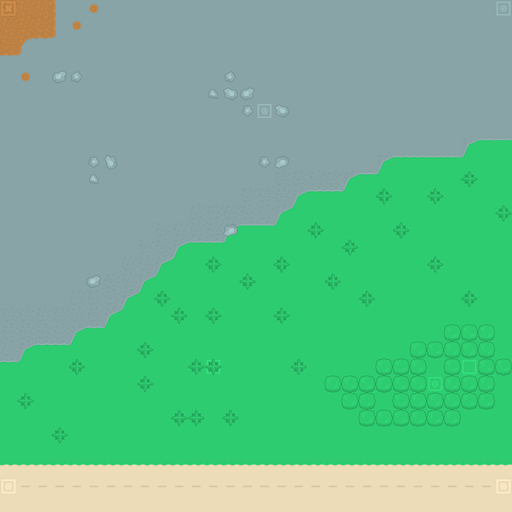
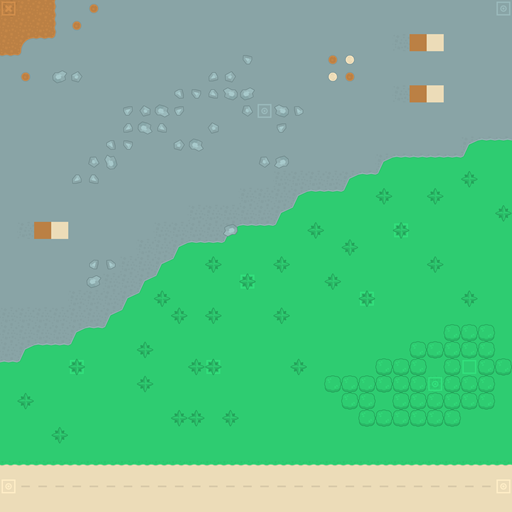
Added houses

diff --git a/src/backend.js b/src/backend.js
@@ -149,74 +149,80 @@ if (GROUNDITEMFLAG){
     const groundgunList = [ 'M1', 'mk14', 'SLR','AWM',    'VSS', 'M249', 'ak47', 'FAMAS',    's686','DBS', 'usas12',     'ump45','vector','mp5']
     const groundGunAmount = groundgunList.length
     for (let i=0;i<groundGunAmount; i++){
-      makeNdropItem('gun', groundgunList[i], groundItemSpawnLoc.x + Math.round(60*(i - groundGunAmount/2)), groundItemSpawnLoc.y )
+      makeNdropItem('gun', groundgunList[i], {x:groundItemSpawnLoc.x + Math.round(60*(i - groundGunAmount/2)), y:groundItemSpawnLoc.y} )
     }
     
     const groundConsList = ['bandage','bandage','bandage','bandage','bandage','medkit']
     const groundConsAmount = groundConsList.length
     for (let i=0;i<groundConsAmount; i++){
-      makeNdropItem('consumable', groundConsList[i], groundItemSpawnLoc.x + Math.round(50*(i - groundConsAmount/2)), groundItemSpawnLoc.y - 100)
+      makeNdropItem('consumable', groundConsList[i], {x:groundItemSpawnLoc.x + Math.round(50*(i - groundConsAmount/2)), y:groundItemSpawnLoc.y - 100})
     }
   
     const groundArmorAmount = armorTypes.length
     for (let i=0;i<groundArmorAmount; i++){
-      makeNdropItem( 'armor', armorTypes[i], groundItemSpawnLoc.x + Math.round(50*(i - groundArmorAmount/2)), groundItemSpawnLoc.y - 150)
+      makeNdropItem( 'armor', armorTypes[i], {x:groundItemSpawnLoc.x + Math.round(50*(i - groundArmorAmount/2)), y:groundItemSpawnLoc.y - 150})
     }
   
     const groundMeleeList = ['knife','bat']
     const groundMeleeAmount = groundMeleeList.length
     for (let i=0;i<groundMeleeAmount; i++){
-      makeNdropItem('melee', groundMeleeList[i], groundItemSpawnLoc.x + Math.round(50*(i - groundMeleeAmount/2)), groundItemSpawnLoc.y - 200)
+      makeNdropItem('melee', groundMeleeList[i], {x:groundItemSpawnLoc.x + Math.round(50*(i - groundMeleeAmount/2)), y:groundItemSpawnLoc.y - 200})
     }
   }
 
   if (ENTITYDISTRIBUTIONS[ENTITYDISTRIBUTION_MARK]==="battleRoyale"){
-
-    makeObjects("wall", 30, {orientation: 'vertical',start:{x:500,y:1000}, end:{x:500,y:1200}, width:20, color: 'gray'})
-
-
     // special tile locations in map1
-    const TILESLOC = {"rock1":{row:0,col:29},"rock2":{row:6,col:15}, "forest1":{row:21,col:27},"forest2":{row:22,col:25},"tree1":{row:21,col:12},"tree2":{row:21,col:4},"tree3":{row:16,col:14},"tree4":{row:17,col:21},"tree5":{row:13,col:23},"sandroad1":{row:28,col:0},"sandroad2":{row:28,col:29}}
-    function getCoordTiles(location){
+    const TILESLOC = {"house1":{row:13,col:2},"house2":{row:2,col:24},"house3":{row:5,col:24},"rock1":{row:0,col:29},"rock2":{row:6,col:15}, "forest1":{row:21,col:27},"forest2":{row:22,col:25},"tree1":{row:21,col:12},"tree2":{row:21,col:4},"tree3":{row:16,col:14},"tree4":{row:17,col:21},"tree5":{row:13,col:23},"sandroad1":{row:28,col:0},"sandroad2":{row:28,col:29}}
+    
+
+    function getCoordTilesCenter(location){
       return {x:location.col*TILE_SIZE + Math.round(TILE_SIZE/2), y:location.row*TILE_SIZE + Math.round(TILE_SIZE/2)}
     }
 
+    function getCoordTiles(location){
+      return {x:location.col*TILE_SIZE, y:location.row*TILE_SIZE}
+    }
+
+    makeHouse(getCoordTiles(TILESLOC["house1"]))
+    makeHouse(getCoordTiles(TILESLOC["house2"]))
+    makeHouse(getCoordTiles(TILESLOC["house3"]))
+
     // some guns 
-    const rock1loc = getCoordTiles(TILESLOC["rock1"])
-    makeNdropItem('gun', 'AWM', rock1loc.x, rock1loc.y)
-    makeNdropItem('scope', "2", rock1loc.x, rock1loc.y+50) // scope 3 is laggy to other PCs
+    const rock1loc = getCoordTilesCenter(TILESLOC["rock1"])
+    makeNdropItem('gun', 'AWM', rock1loc)
+    makeNdropItem('scope', "2", rock1loc) // scope 3 is laggy to other PCs
     // console.log(rockloc)
     // console.log(MAPWIDTH)
-    const rock2loc = getCoordTiles(TILESLOC["rock2"])
-    makeNdropItem('gun', 'M249', rock2loc.x, rock2loc.y)
-    makeNdropItem('scope', "1", rock2loc.x, rock2loc.y + 50)
+    const rock2loc = getCoordTilesCenter(TILESLOC["rock2"])
+    makeNdropItem('gun', 'M249', rock2loc)
+    makeNdropItem('scope', "1", rock2loc)
 
-    const sandroad1loc = getCoordTiles(TILESLOC["sandroad1"])
-    makeNdropItem('gun', 'mp5', sandroad1loc.x, sandroad1loc.y)
+    const sandroad1loc = getCoordTilesCenter(TILESLOC["sandroad1"])
+    makeNdropItem('gun', 'mp5', sandroad1loc)
 
-    const sandroad2loc = getCoordTiles(TILESLOC["sandroad2"])
-    makeNdropItem('gun', 's686', sandroad2loc.x, sandroad2loc.y)
+    const sandroad2loc = getCoordTilesCenter(TILESLOC["sandroad2"])
+    makeNdropItem('gun', 's686', sandroad2loc)
 
-    const tree2loc = getCoordTiles(TILESLOC["tree2"])
-    makeNdropItem('gun', 'grenadeLauncher', tree2loc.x, tree2loc.y)
+    const tree2loc = getCoordTilesCenter(TILESLOC["tree2"])
+    makeNdropItem('gun', 'grenadeLauncher', tree2loc)
     
 
-    makeNdropItem('gun', 'vector', getCoordTiles(TILESLOC["tree3"]).x, getCoordTiles(TILESLOC["tree3"]).y)
-    makeNdropItem('melee', 'knife', getCoordTiles(TILESLOC["tree4"]).x, getCoordTiles(TILESLOC["tree4"]).y)
-    makeNdropItem('gun', 'ak47', getCoordTiles(TILESLOC["tree5"]).x, getCoordTiles(TILESLOC["tree5"]).y)
+    makeNdropItem('gun', 'vector', getCoordTilesCenter(TILESLOC["tree3"]))
+    makeNdropItem('melee', 'knife', getCoordTilesCenter(TILESLOC["tree4"]))
+    makeNdropItem('gun', 'ak47', getCoordTilesCenter(TILESLOC["tree5"]))
 
 
     // some health packs
-    const tree1loc = getCoordTiles(TILESLOC["tree1"])
-    makeNdropItem('consumable', 'medkit',tree1loc.x, tree1loc.y)
+    const tree1loc = getCoordTilesCenter(TILESLOC["tree1"])
+    makeNdropItem('consumable', 'medkit',tree1loc)
 
     // some armors
-    const forest1loc = getCoordTiles(TILESLOC["forest1"])
-    makeNdropItem( 'armor', 'absorb', forest1loc.x, forest1loc.y)
+    const forest1loc = getCoordTilesCenter(TILESLOC["forest1"])
+    makeNdropItem( 'armor', 'absorb', forest1loc)
 
-    const forest2loc = getCoordTiles(TILESLOC["forest2"])
-    makeNdropItem( 'armor', 'reduce', forest2loc.x, forest2loc.y)
-    makeNdropItem('scope', "1", forest2loc.x, forest2loc.y+50)
+    const forest2loc = getCoordTilesCenter(TILESLOC["forest2"])
+    makeNdropItem( 'armor', 'reduce', forest2loc)
+    makeNdropItem('scope', "1", forest2loc)
 
   }
 
@@ -399,7 +405,7 @@ async function main(){
 
             // default item for a player if exists
             for (let i=0;i<defaultGuns.length; i++){
-              makeNdropItem('gun', defaultGuns[i], 0 , 0,onground=false)
+              makeNdropItem('gun', defaultGuns[i], {x:0 ,y:0},onground=false)
               inventory[i] = backEndItems[itemsId]
             }
 
@@ -810,7 +816,10 @@ setInterval(() => {
 
 
 
-function makeNdropItem(itemtype, name, groundx, groundy,onground=true){
+function makeNdropItem(itemtype, name, groundloc,onground=true){
+  const groundx = groundloc.x
+  const groundy = groundloc.y
+
   itemsId++
   let size
   let color
@@ -894,6 +903,28 @@ function makeObjects(objecttype, health, objectinfo){
   backEndObjects[objectId] = {
     objecttype , myID:objectId, deleteRequest:false, health, objectinfo, objectsideforbackend
   }
+}
+
+function makeBox(location){ // location is top left corner
+  const WALLWIDTH = 20
+  makeObjects("wall", 30, {orientation: 'vertical',start:{x:location.x+WALLWIDTH,y:location.y}, end:{x:location.x+WALLWIDTH,y:location.y+200}, width:WALLWIDTH, color: 'gray'})
+  makeObjects("wall", 30, {orientation: 'vertical',start:{x:location.x+300-WALLWIDTH,y:location.y}, end:{x:location.x+300-WALLWIDTH,y:location.y+200}, width:WALLWIDTH, color: 'gray'})
+  makeObjects("wall", 30, {orientation: 'horizontal',start:{x:location.x,y:location.y}, end:{x:location.x+300,y:location.y}, width:WALLWIDTH, color: 'gray'})
+  makeObjects("wall", 30, {orientation: 'horizontal',start:{x:location.x,y:location.y+200}, end:{x:location.x+300,y:location.y+200}, width:WALLWIDTH, color: 'gray'})
+  
+}
+
+function makeHouse(location){ // location is top left corner
+  const WALLWIDTH_HALF = 10
+  const WALLWIDTH = WALLWIDTH_HALF*2
+  const HOUSEWIDTH = TILE_SIZE*2
+  const HOUSEHEIGHT = TILE_SIZE
+  const DOORLEN = 40
+  makeObjects("wall", 30, {orientation: 'vertical',start:{x:location.x+WALLWIDTH_HALF,y:location.y+DOORLEN}, end:{x:location.x+WALLWIDTH_HALF,y:location.y+HOUSEHEIGHT}, width:WALLWIDTH, color: 'gray'})
+  makeObjects("wall", 30, {orientation: 'vertical',start:{x:location.x+HOUSEWIDTH-WALLWIDTH_HALF,y:location.y}, end:{x:location.x+HOUSEWIDTH-WALLWIDTH_HALF,y:location.y+HOUSEHEIGHT}, width:WALLWIDTH, color: 'gray'})
+  makeObjects("wall", 30, {orientation: 'horizontal',start:{x:location.x,y:location.y}, end:{x:location.x+HOUSEWIDTH,y:location.y}, width:WALLWIDTH, color: 'gray'})
+  makeObjects("wall", 30, {orientation: 'horizontal',start:{x:location.x,y:location.y+HOUSEHEIGHT}, end:{x:location.x+HOUSEWIDTH,y:location.y+HOUSEHEIGHT}, width:WALLWIDTH, color: 'gray'})
+  
 }
 
 function safeDeleteObject(id){
@@ -1031,11 +1062,11 @@ function safeDeleteEnemy(enemyid, leaveDrop = true){
     const idxGUN = Math.round(Math.random()*(enemyDropGuns.length-1)) // 0 ~ 3
     const chance = Math.random()
     if (chance < 0.01){ // 1% chance to drop medkit
-      makeNdropItem( 'consumable', 'medkit', enemyInfoGET.x,enemyInfoGET.y)
+      makeNdropItem( 'consumable', 'medkit', {x:enemyInfoGET.x, y:enemyInfoGET.y})
     } else if (0.01 < chance && chance < 0.03){ // 2% chance to drop bandage
-      makeNdropItem( 'consumable', 'bandage', enemyInfoGET.x,enemyInfoGET.y)
+      makeNdropItem( 'consumable', 'bandage', {x:enemyInfoGET.x, y:enemyInfoGET.y})
     } else if (chance>0.999){ // 0.1% to drop guns
-      makeNdropItem( 'gun', enemyDropGuns[idxGUN], enemyInfoGET.x,enemyInfoGET.y)
+      makeNdropItem( 'gun', enemyDropGuns[idxGUN], {x:enemyInfoGET.x, y:enemyInfoGET.y})
     } 
   } 
   ENEMYCOUNT--

diff --git a/public/frontend.js b/public/frontend.js
@@ -982,7 +982,7 @@ function loop(){
 
         if (130 <= id && id <= 134){ // grass - opacity
           canvas.save();
-          canvas.globalAlpha = 0.9;
+          canvas.globalAlpha = 0.8;
           canvas.drawImage(mapImage, 
             imageCol * TILE_SIZE,
             imageRow * TILE_SIZE,
@@ -1001,6 +1001,18 @@ function loop(){
             row*TILE_SIZE - camY,
             TILE_SIZE,TILE_SIZE
             );
+        } else if(id === 188 || id === 50){ // ceiling of the house
+          canvas.save();
+          canvas.globalAlpha = 0.95;
+          canvas.drawImage(mapImage, 
+            imageCol * TILE_SIZE,
+            imageRow * TILE_SIZE,
+            TILE_SIZE,TILE_SIZE,
+            col*TILE_SIZE - camX, 
+            row*TILE_SIZE - camY,
+            TILE_SIZE,TILE_SIZE
+            );
+          canvas.restore();
         }
       }
     }
